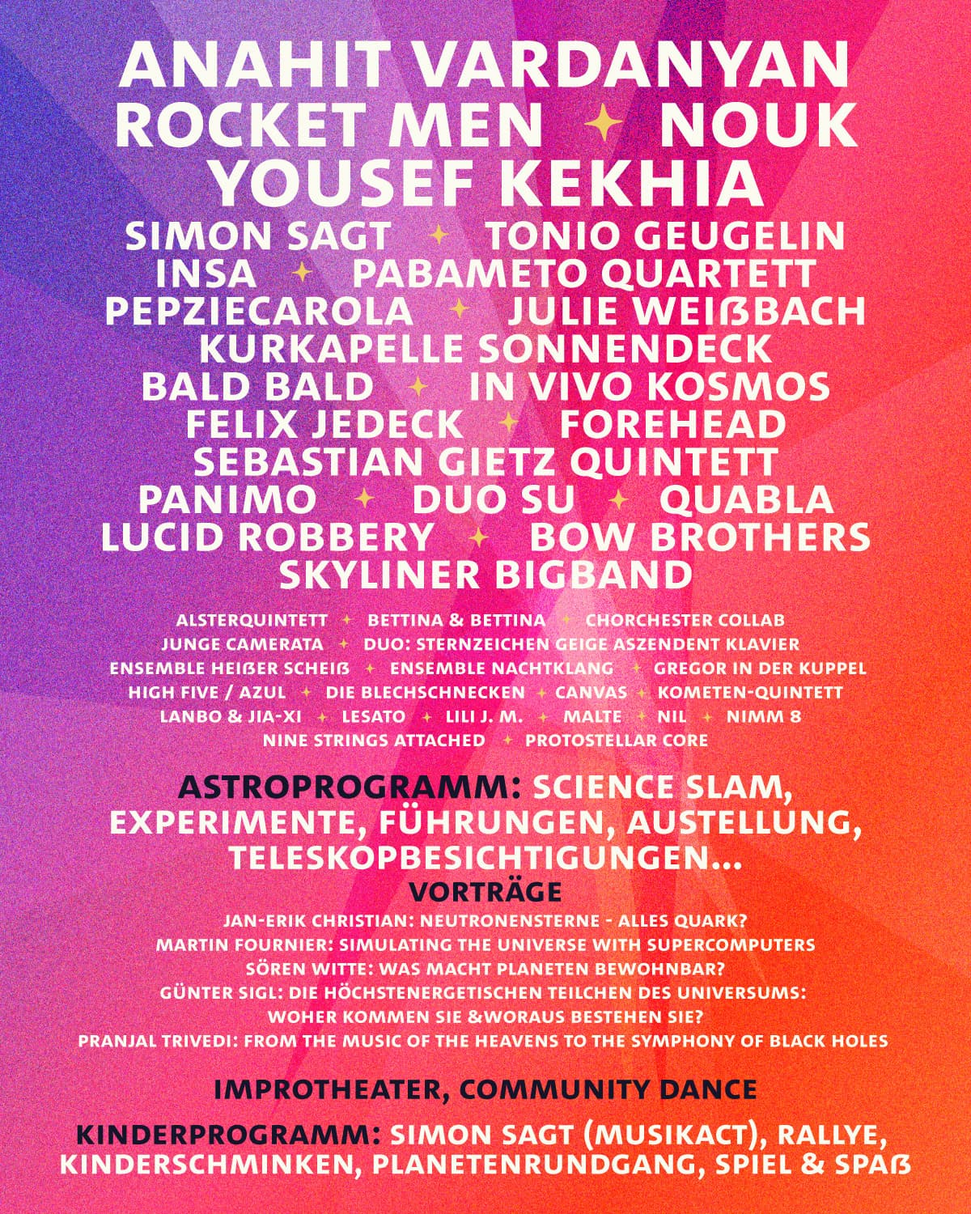
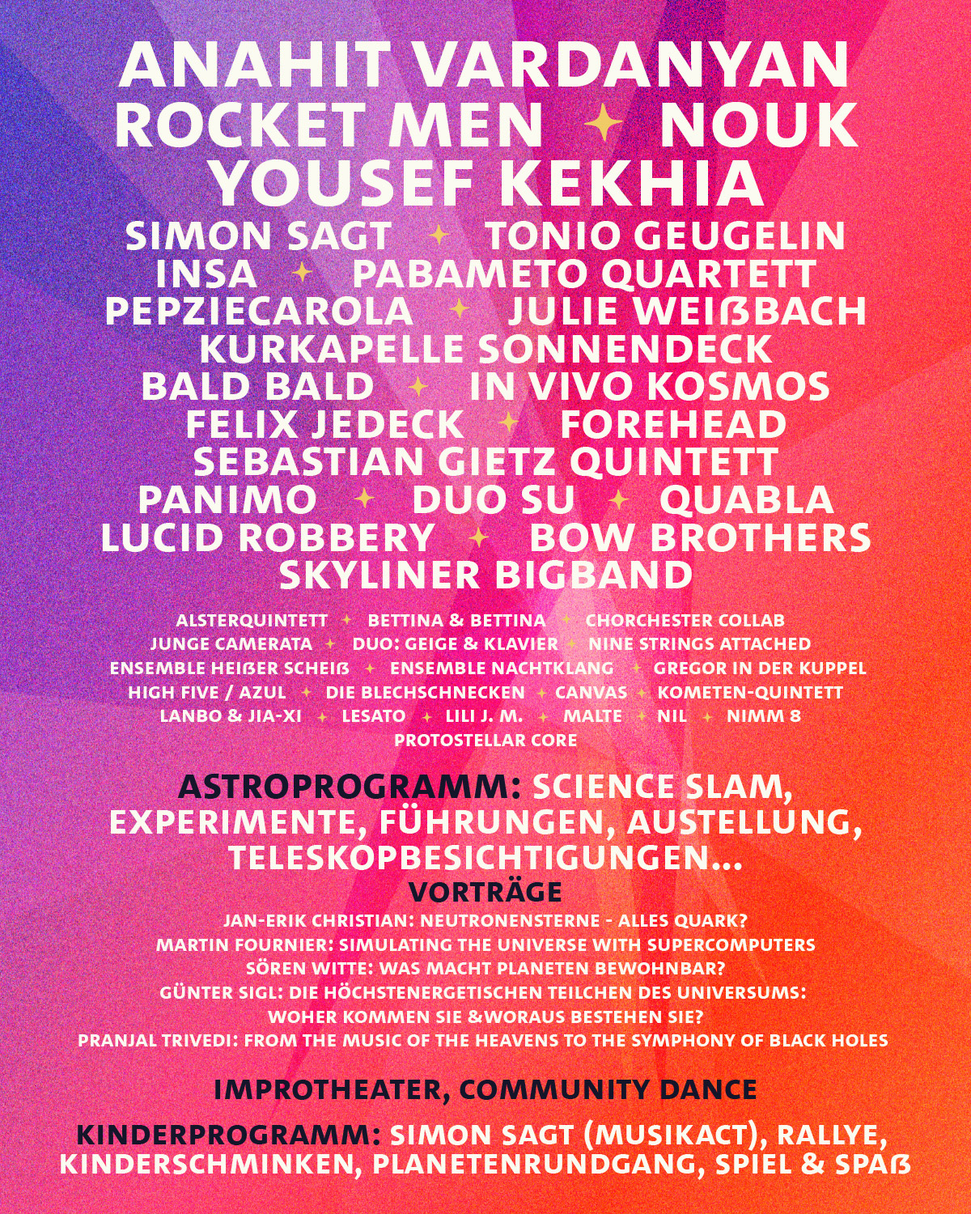
chantes to lineup

diff --git a/app/programm/page.tsx b/app/programm/page.tsx
@@ -86,7 +86,7 @@ const ProgrammPage = () => {
 
     Chorchester Collab <Image src="/star.svg" alt="star symbol" width="10" height="10" />&nbsp;
     Die Junge Camerata <Image src="/star.svg" alt="star symbol" width="10" height="10" />&nbsp;
-    Duo: Sternzeichen Geige Aszendent Klavier <Image src="/star.svg" alt="star symbol" width="10" height="10" />&nbsp;
+    Duo: Geige & Klavier <Image src="/star.svg" alt="star symbol" width="10" height="10" />&nbsp;
     Gregor in der Kuppel <Image src="/star.svg" alt="star symbol" width="10" height="10" />&nbsp;
     High Five / Azul <Image src="/star.svg" alt="star symbol" width="10" height="10" />&nbsp;
     Immanuel <Image src="/star.svg" alt="star symbol" width="10" height="10" />&nbsp;
